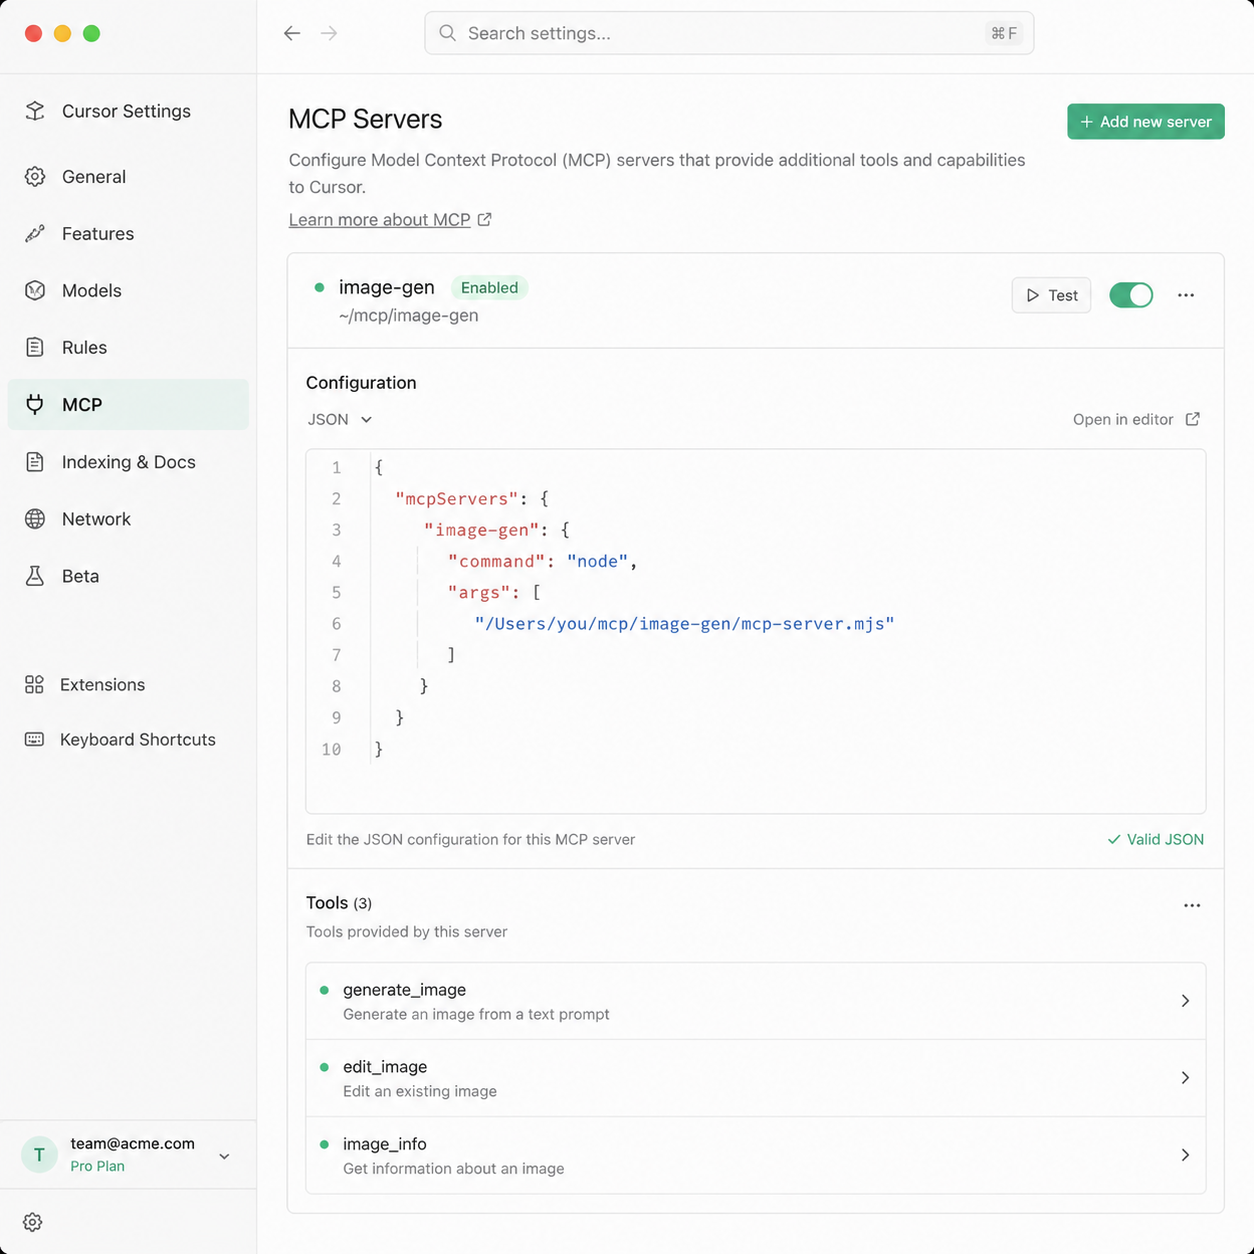
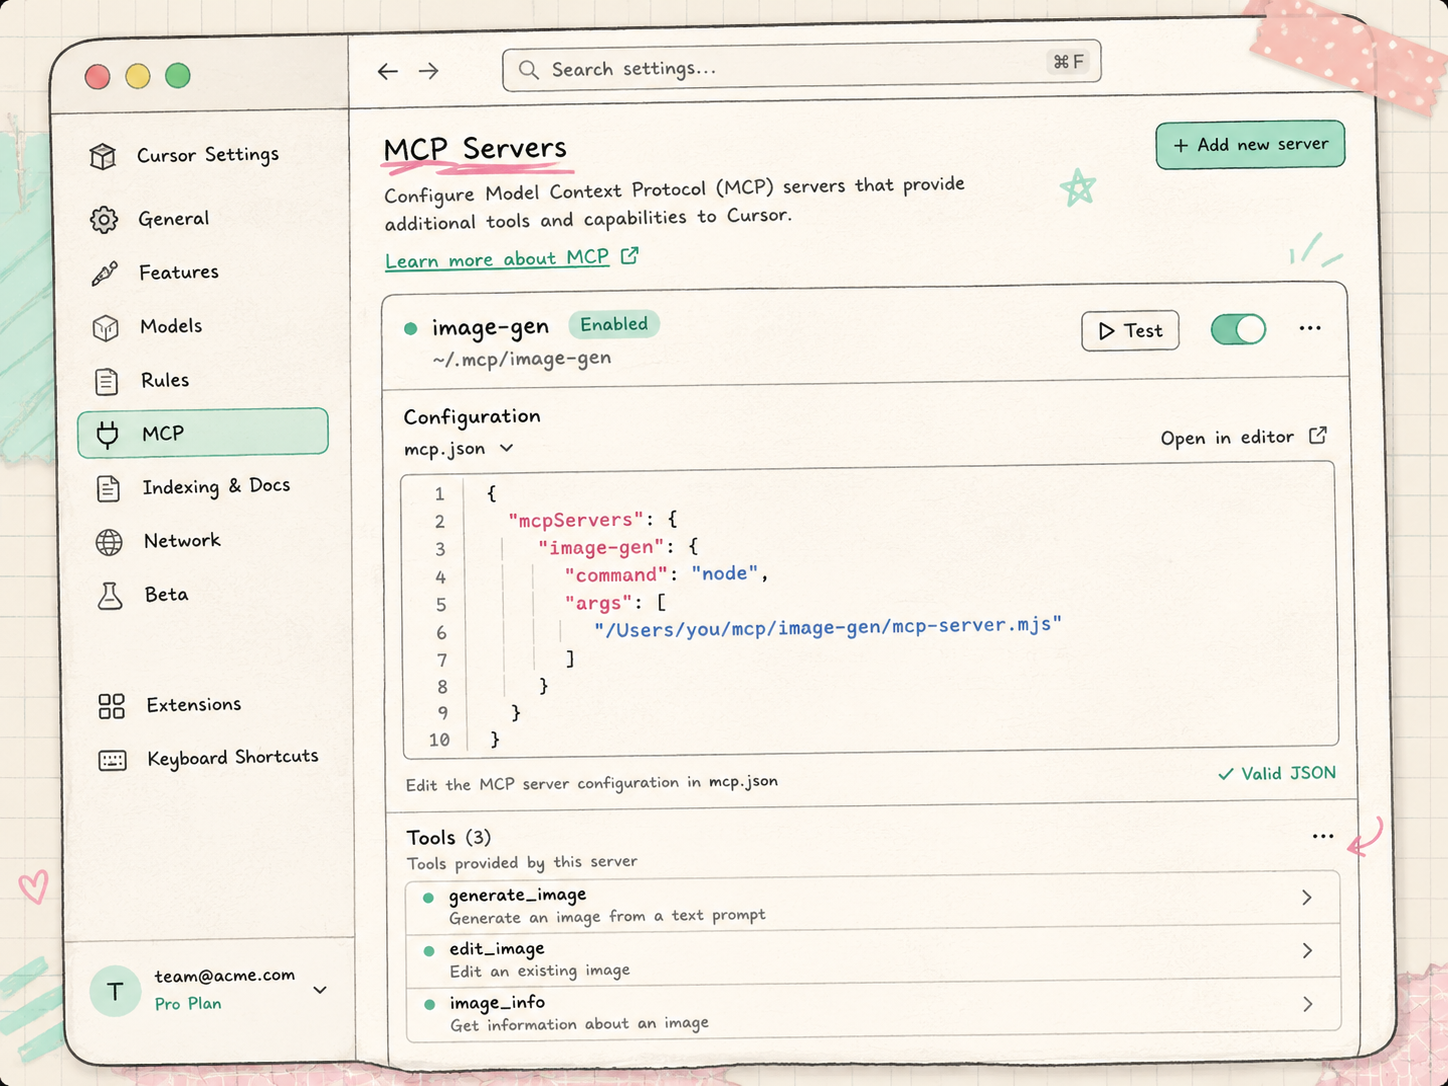
Restyle how-it-works screens as scrapbook UI that fits the doodle theme.
Keep the product flow readable while matching cream paper, soft borders, and the laptop-stage placement.

diff --git a/src/components/site/how.tsx b/src/components/site/how.tsx
@@ -72,30 +72,50 @@ function ScreenFrame({ active }: { active: number }) {
     () => {
       gsap.fromTo(
         frameRef.current,
-        { y: 8 },
-        { y: -6, duration: 3.6, yoyo: true, repeat: -1, ease: "sine.inOut" },
+        { y: 6, rotate: -0.4 },
+        { y: -6, rotate: 0.5, duration: 3.6, yoyo: true, repeat: -1, ease: "sine.inOut" },
       );
     },
     { scope: frameRef },
   );
 
+  const labels = [
+    "mcp settings",
+    "agent chat",
+    "edge · chatgpt",
+    "image result",
+    "png in repo",
+  ] as const;
+
   return (
     <div ref={frameRef} className="w-full max-w-xl will-change-transform">
-      {/* laptop chrome */}
-      <div className="overflow-hidden rounded-[1.15rem] border border-ink/20 bg-[#1c1f26] p-2 shadow-[0_22px_48px_oklch(0.3_0.02_260/0.18)] sm:p-2.5">
-        <div className="mb-2 flex items-center gap-1.5 px-1">
-          <span className="h-2.5 w-2.5 rounded-full bg-[#ff5f57]" />
-          <span className="h-2.5 w-2.5 rounded-full bg-[#febc2e]" />
-          <span className="h-2.5 w-2.5 rounded-full bg-[#28c840]" />
-          <span className="ml-2 font-mono text-[10px] text-white/45">
-            {active === 0 && "Cursor · MCP Servers"}
-            {active === 1 && "Cursor · Agent chat"}
-            {active === 2 && "Edge · chatgpt.com"}
-            {active === 3 && "ChatGPT · Image"}
-            {active === 4 && "IDE · public/"}
+      {/* scrapbook paper stage — matches site doodle language */}
+      <div className="relative rounded-[1.35rem] border border-ink/20 bg-[#f7f4ec] p-3 shadow-[0_18px_42px_oklch(0.35_0.02_260/0.12)] sm:p-3.5">
+        <span
+          className="pointer-events-none absolute left-6 top-2 h-3 w-16 -rotate-6 rounded-sm bg-[oklch(0.86_0.08_160/0.65)]"
+          aria-hidden
+        />
+        <span
+          className="pointer-events-none absolute right-10 top-3 h-3 w-12 rotate-3 rounded-sm bg-[oklch(0.88_0.08_350/0.55)]"
+          aria-hidden
+        />
+        <div className="mb-2.5 flex items-center gap-2 px-1 pt-1">
+          <span className="h-2.5 w-2.5 rounded-full border border-ink/40 bg-[#f27b7b]" />
+          <span className="h-2.5 w-2.5 rounded-full border border-ink/40 bg-[#f4cd4f]" />
+          <span className="h-2.5 w-2.5 rounded-full border border-ink/40 bg-[#7dce9a]" />
+          <span className="ml-1 font-mono text-[10px] tracking-wide text-ink/50">
+            {labels[active]}
           </span>
         </div>
-        <div className="relative overflow-hidden rounded-[0.75rem] bg-white" style={{ aspectRatio: "4 / 3" }}>
+        <div
+          className="relative overflow-hidden rounded-[0.95rem] border border-ink/15 bg-paper"
+          style={{
+            aspectRatio: "4 / 3",
+            backgroundImage:
+              "linear-gradient(oklch(0.88 0.03 145 / 0.28) 1px, transparent 1px), linear-gradient(90deg, oklch(0.88 0.03 145 / 0.28) 1px, transparent 1px)",
+            backgroundSize: "22px 22px",
+          }}
+        >
           {STEPS.map((s, i) => (
             <img
               key={s.title}
@@ -103,17 +123,16 @@ function ScreenFrame({ active }: { active: number }) {
               alt={s.alt}
               width={1280}
               height={960}
-              className={`absolute inset-0 h-full w-full object-cover object-top transition-all duration-500 ease-out motion-reduce:transition-none ${
-                i === active ? "opacity-100 scale-100" : "opacity-0 scale-[0.98]"
+              className={`absolute inset-0 h-full w-full object-contain p-2 transition-all duration-500 ease-out motion-reduce:transition-none sm:p-3 ${
+                i === active ? "opacity-100 scale-100" : "opacity-0 scale-[0.97]"
               }`}
               aria-hidden={i !== active}
             />
           ))}
         </div>
       </div>
-      <div className="mx-auto h-2.5 w-[104%] rounded-b-xl border border-ink/25 bg-[#2a2e36]" />
-      <p className="hand mt-3 text-center text-lg text-ink/45">
-        {active + 1} / {STEPS.length} · real flow
+      <p className="hand mt-3 text-center text-xl text-ink/50">
+        {active + 1} of {STEPS.length}
       </p>
     </div>
   );
@@ -192,10 +211,10 @@ export function HowItWorks() {
           <Reveal>
             <p className="hand text-3xl text-ink/80">how it works</p>
             <h2 className="mt-2 max-w-2xl font-display text-4xl leading-[1.1] tracking-tight sm:text-5xl">
-              the real screens, <span className="marker">end to end</span>.
+              the flow, <span className="marker">screen by screen</span>.
             </h2>
             <p className="mt-4 max-w-xl font-mono text-sm leading-relaxed text-ink/75">
-              from MCP settings to a PNG in your repo — what it looks like when an agent can paint.
+              doodle-styled UI of the real path — MCP in, ChatGPT paints, PNG lands in your repo.
             </p>
           </Reveal>
         </div>
